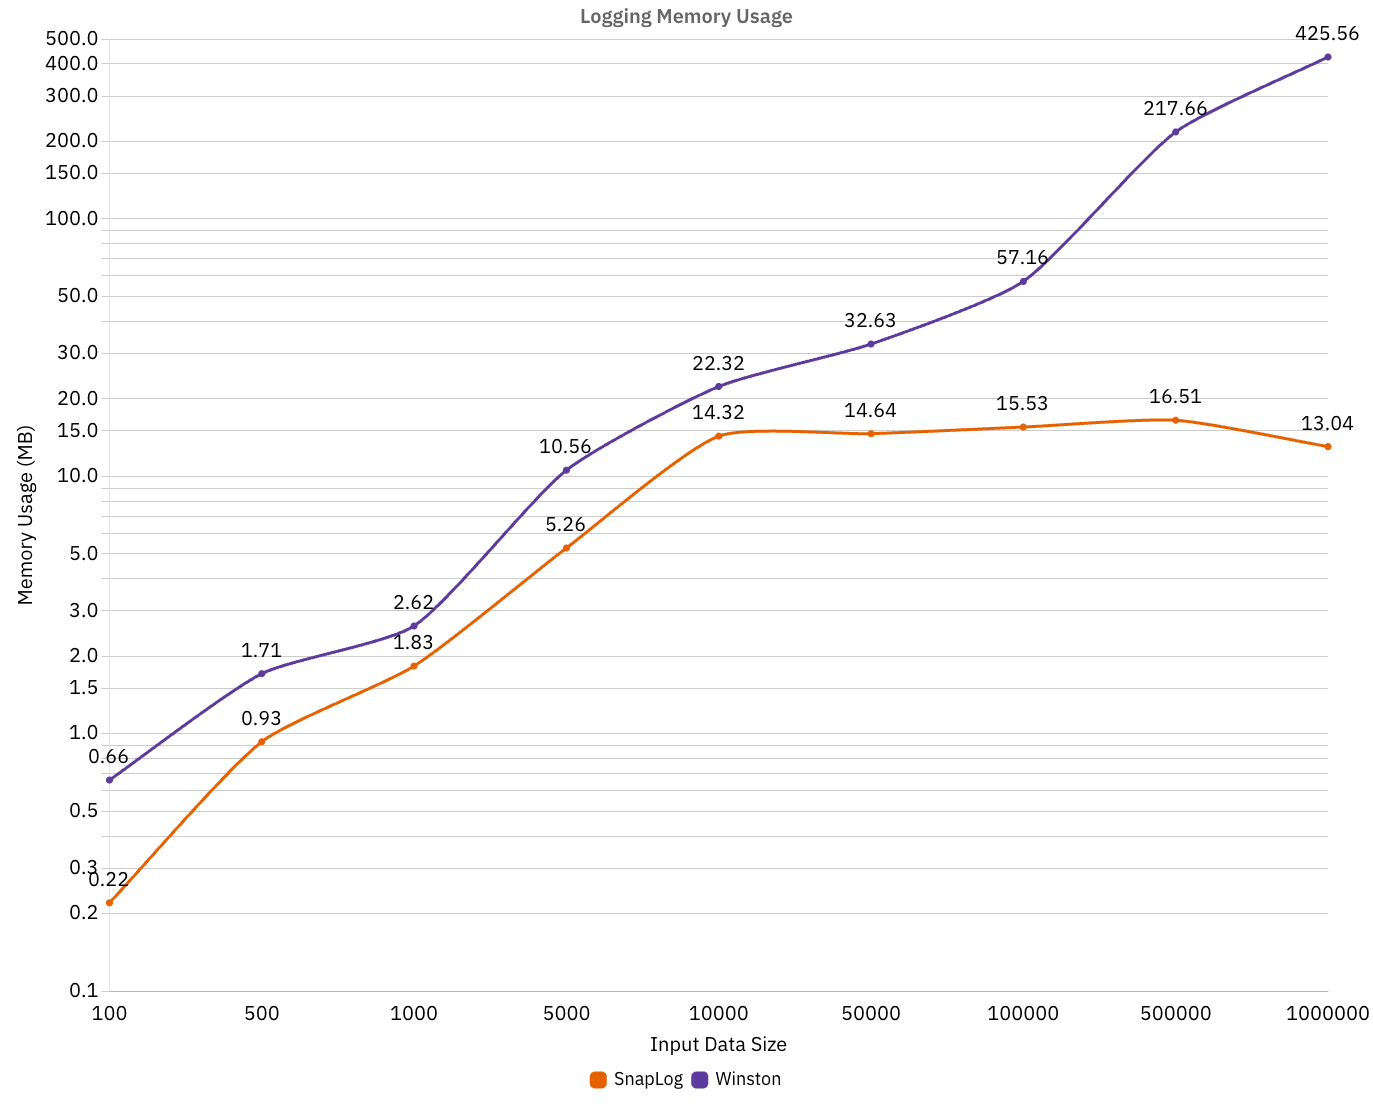
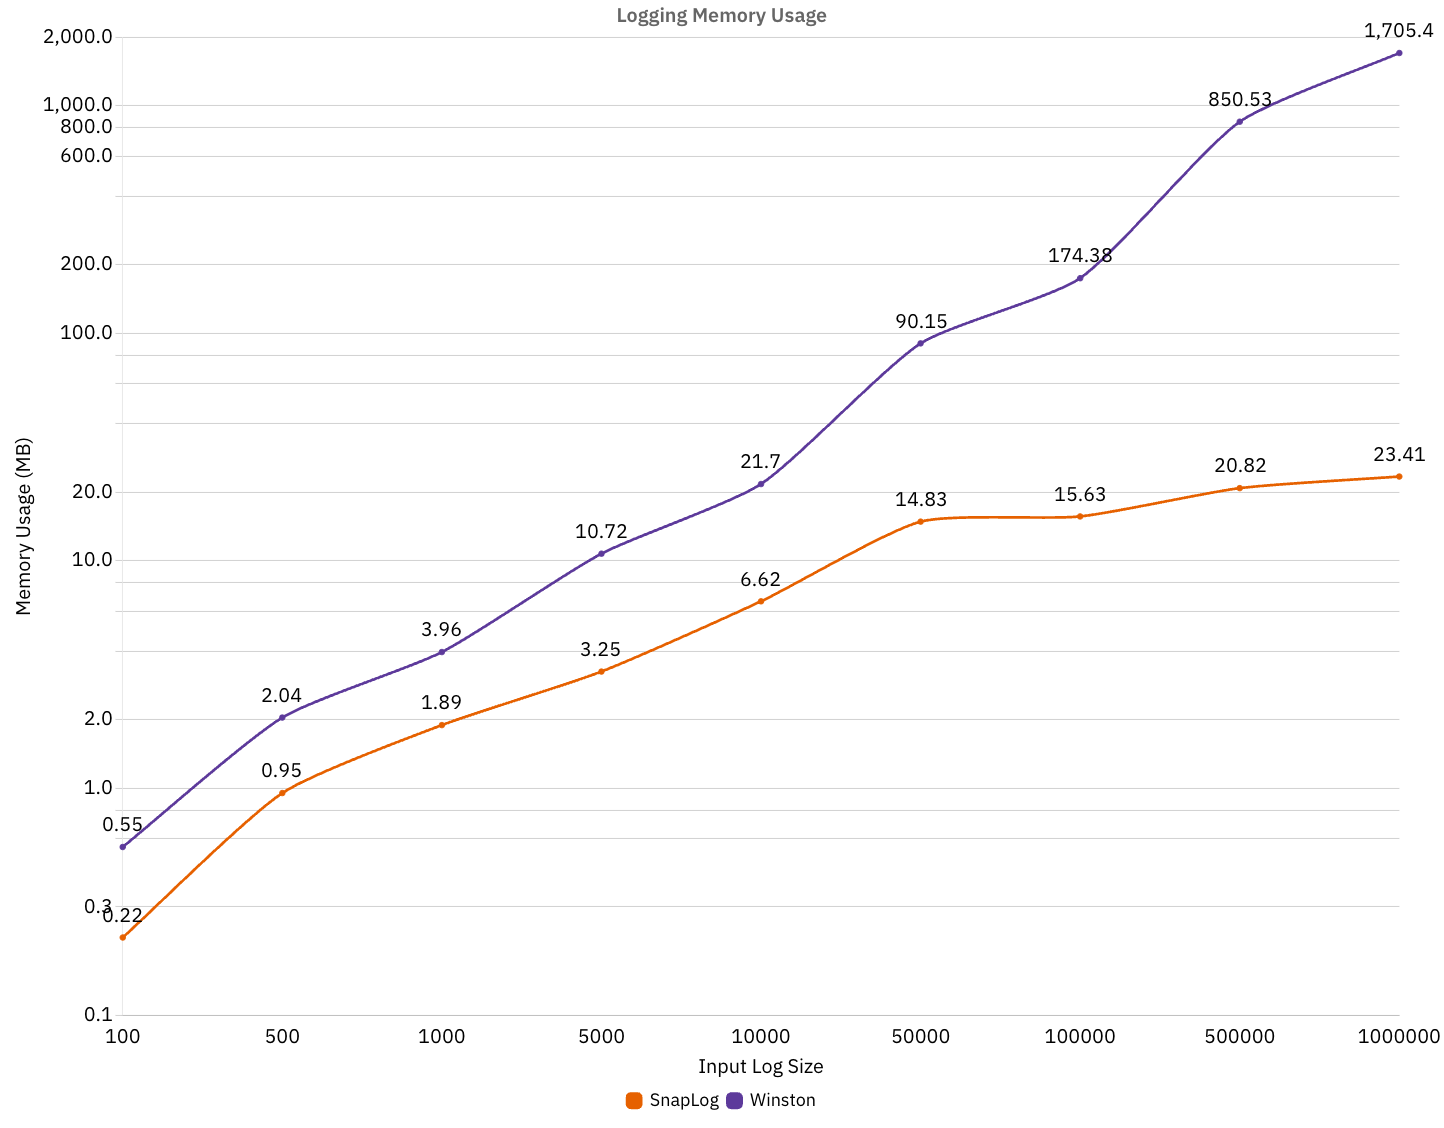
feat: update benchmark tests to use larger log dataset and track peak memory usage

diff --git a/benchmark.js b/benchmark.js
@@ -11,7 +11,7 @@ const __dirname = path.dirname(__filename);
 
 let logs;
 try {
-  logs = JSON.parse(fs.readFileSync("./benchmark/testData/100_logs.json", "utf8"));
+  logs = JSON.parse(fs.readFileSync("./benchmark/testData/500000_logs.json", "utf8"));
 } catch (error) {
   console.error(chalk.red("Error loading test data:"), error);
   process.exit(1);
@@ -83,11 +83,18 @@ async function benchmarkLogging(logger, loggerName, fileName) {
   const startMemory = process.memoryUsage();
   const startCPU = process.cpuUsage();
   const startTime = performance.now();
+  let peakHeapUsed = startMemory.heapUsed;
+  const sampleInterval = Math.max(1, Math.floor(logs.length / 10)); // Sample every 10%
 
   try {
-    for (const log of logs) {
+    for (let i = 0; i < logs.length; i++) {
+      const log = logs[i];
       const normalizedLevel = loggerName === "Winston" ? log.level.toLowerCase() : log.level;
       logger.log(normalizedLevel, log.message, log.metadata);
+
+      if (i % sampleInterval === 0) {
+        peakHeapUsed = Math.max(peakHeapUsed, process.memoryUsage().heapUsed);
+      }
     }
   } catch (error) {
     clearInterval(spinnerInterval);
@@ -95,17 +102,16 @@ async function benchmarkLogging(logger, loggerName, fileName) {
     return null;
   }
 
+  const endTime = performance.now();
+  const endCPU = process.cpuUsage(startCPU);
+
   clearInterval(spinnerInterval);
   process.stdout.write('\r' + ' '.repeat(messageLength));
 
-  const endTime = performance.now();
-  const endMemory = process.memoryUsage();
-  const endCPU = process.cpuUsage(startCPU);
-
   return {
     time: endTime - startTime,
-    memory: {
-      heapUsed: (endMemory.heapUsed - startMemory.heapUsed) / (1024 * 1024),
+    memory: { 
+      heapUsed: parseFloat((peakHeapUsed - startMemory.heapUsed) / (1024 * 1024).toFixed(2))  // Peak memory used
     },
     cpu: {
       user: endCPU.user / 1000,
@@ -197,11 +203,18 @@ async function benchmarkFiltering(logger, loggerName, filterType, fileName) {
   const startMemory = process.memoryUsage();
   const startCPU = process.cpuUsage();
   const startTime = performance.now();
+  let peakHeapUsed = startMemory.heapUsed;
+  const sampleInterval = Math.max(1, Math.floor(logs.length / 10)); // Sample every 10%
 
   try {
-    for (const log of logs) {
+    for (let i = 0; i < logs.length; i++) {
+      const log = logs[i];
       const normalizedLevel = loggerName === "Winston" ? log.level.toLowerCase() : log.level;
       logger.log(normalizedLevel, log.message, log.metadata);
+
+      if (i % sampleInterval === 0) {
+        peakHeapUsed = Math.max(peakHeapUsed, process.memoryUsage().heapUsed);
+      }
     }
   } catch (error) {
     clearInterval(spinnerInterval);
@@ -209,17 +222,16 @@ async function benchmarkFiltering(logger, loggerName, filterType, fileName) {
     return null;
   }
 
+  const endTime = performance.now();
+  const endCPU = process.cpuUsage(startCPU);
+  
   clearInterval(spinnerInterval);
   process.stdout.write('\r' + ' '.repeat(messageLength));
 
-  const endTime = performance.now();
-  const endMemory = process.memoryUsage();
-  const endCPU = process.cpuUsage(startCPU);
-
   return {
     time: endTime - startTime,
-    memory: {
-      heapUsed: (endMemory.heapUsed - startMemory.heapUsed) / (1024 * 1024),
+    memory: { 
+      heapUsed: parseFloat((peakHeapUsed - startMemory.heapUsed) / (1024 * 1024).toFixed(2))  // Peak memory used
     },
     cpu: {
       user: endCPU.user / 1000,
